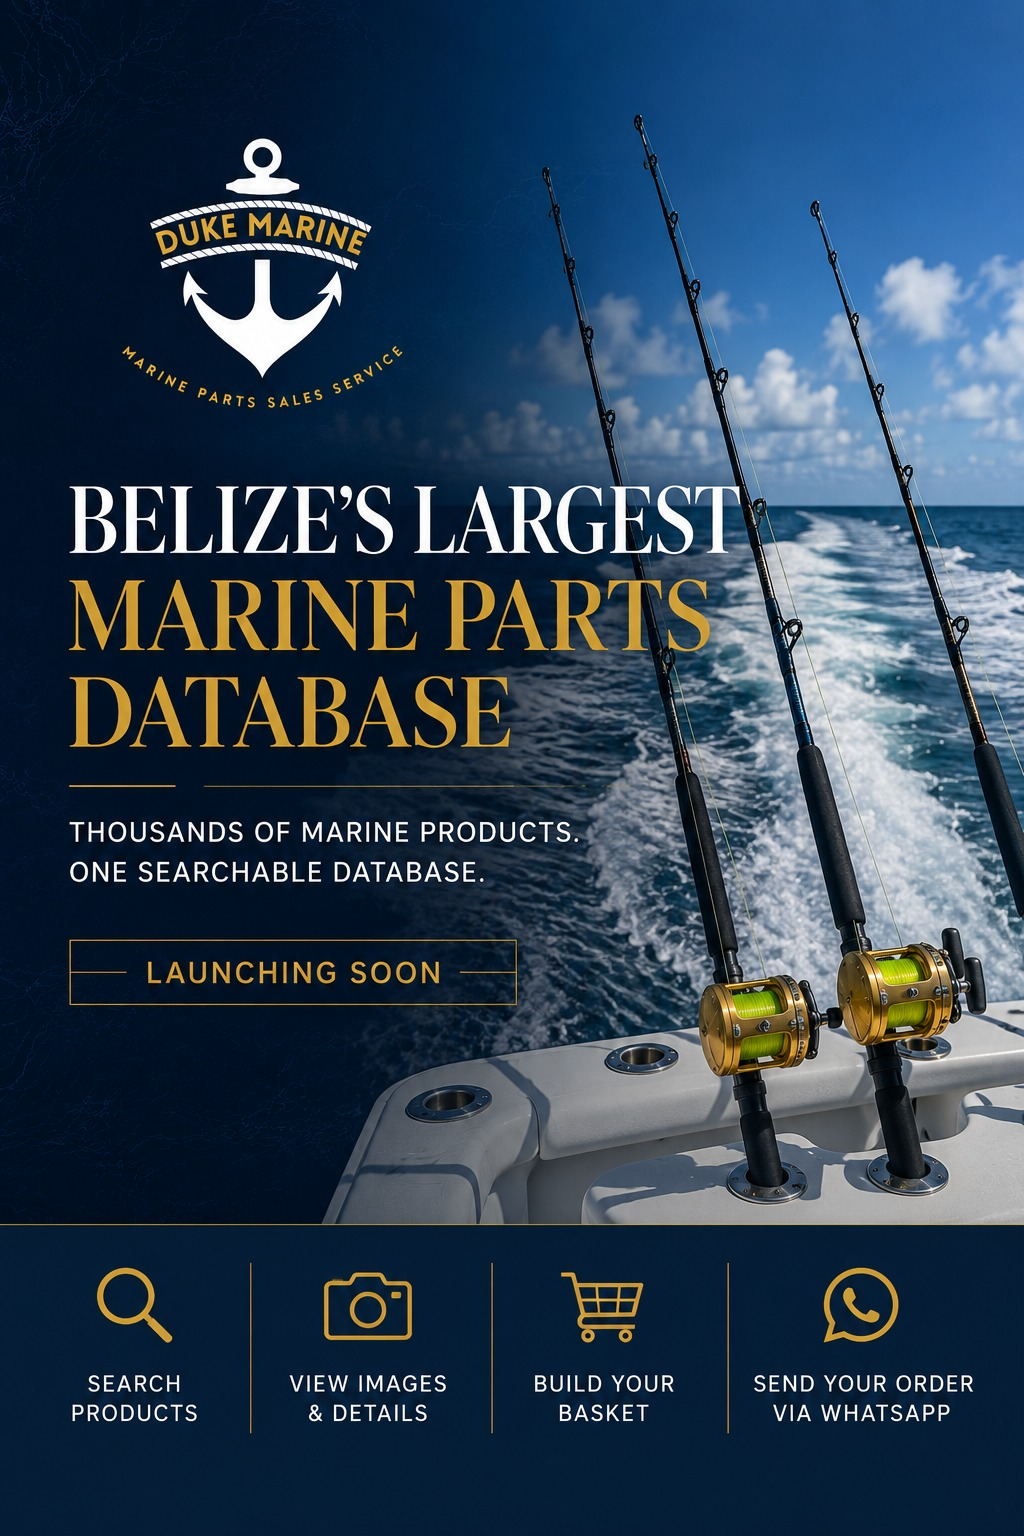
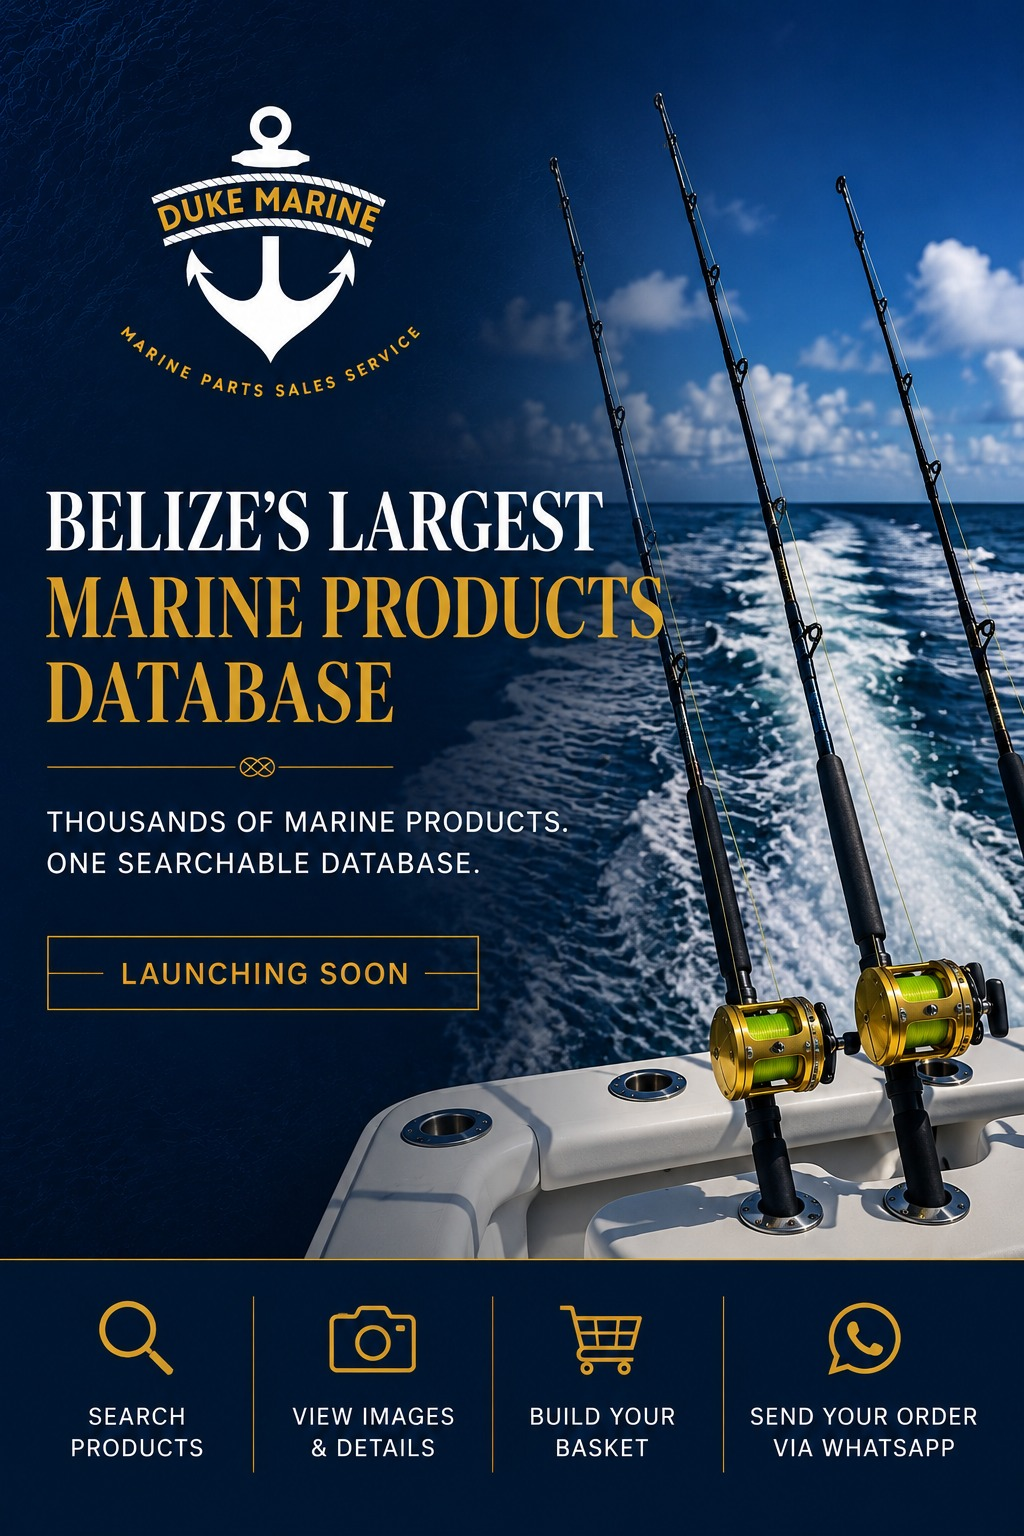
Duke Marine: new database + diving hero slides, updated hours
- Hero: replace the Coming Soon graphic with the new "Belize's Largest
  Marine Products Database" artwork; add the new "Every Great Dive Starts
  With The Right Gear" diving slide (4 slides total, shown in full).
- Update business hours to Mon-Fri 8:00 AM-4:30 PM, Sat 8:30 AM-1:00 PM,
  Sun closed (site-wide + schema).

(About history, dukemarine@btl.net email, single Retail Sales Associate
vacancy with no form, and removal of charter/crew language were already
applied in the prior corrective update and re-verified in this QA pass.)

Claude-Session: https://claude.ai/code/session_01Ukhcnn2WSxxzKm2y59izUM

diff --git a/duke-marine/src/data/site.ts b/duke-marine/src/data/site.ts
@@ -35,11 +35,11 @@ export const site = {
     lng: -88.2405,
     mapQuery: 'Duke Marine, Philip Goldson Highway, Belize City, Belize',
   },
-  // PROVISIONAL hours — confirm with Duke Marine before final production launch.
-  // These are not Google-verified.
+  // Hours supplied by the client. Confirm with Duke Marine before final
+  // production launch; these are not Google-verified.
   hours: [
-    { day: 'Monday - Friday', time: '8:00 AM - 5:00 PM' },
-    { day: 'Saturday', time: '8:00 AM - 12:00 PM' },
+    { day: 'Monday - Friday', time: '8:00 AM - 4:30 PM' },
+    { day: 'Saturday', time: '8:30 AM - 1:00 PM' },
     { day: 'Sunday', time: 'Closed' },
   ],
   social: {
